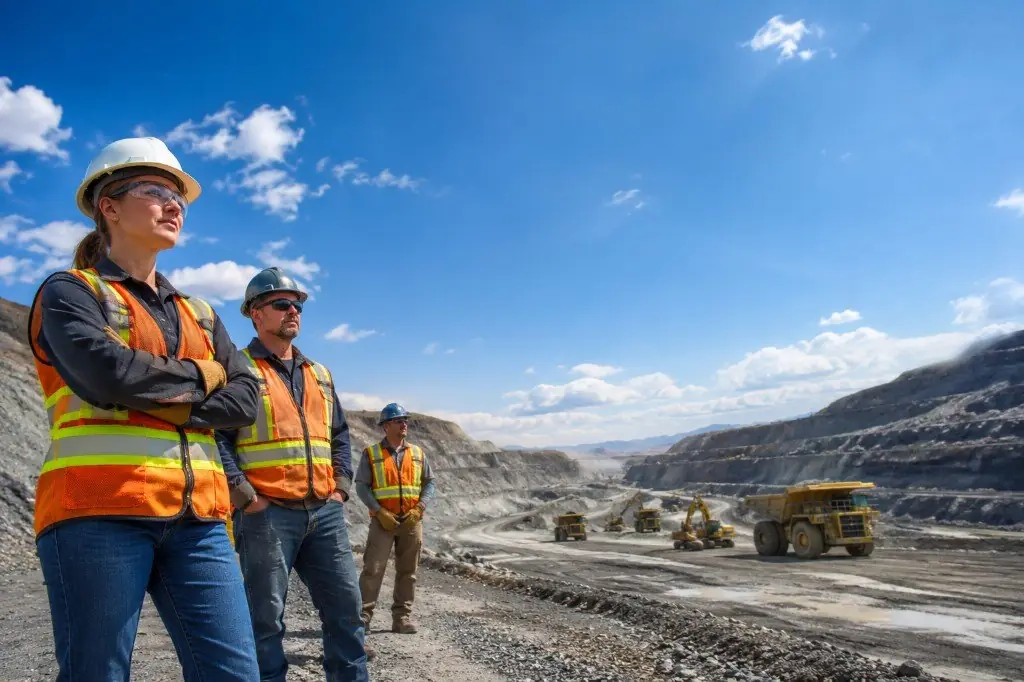
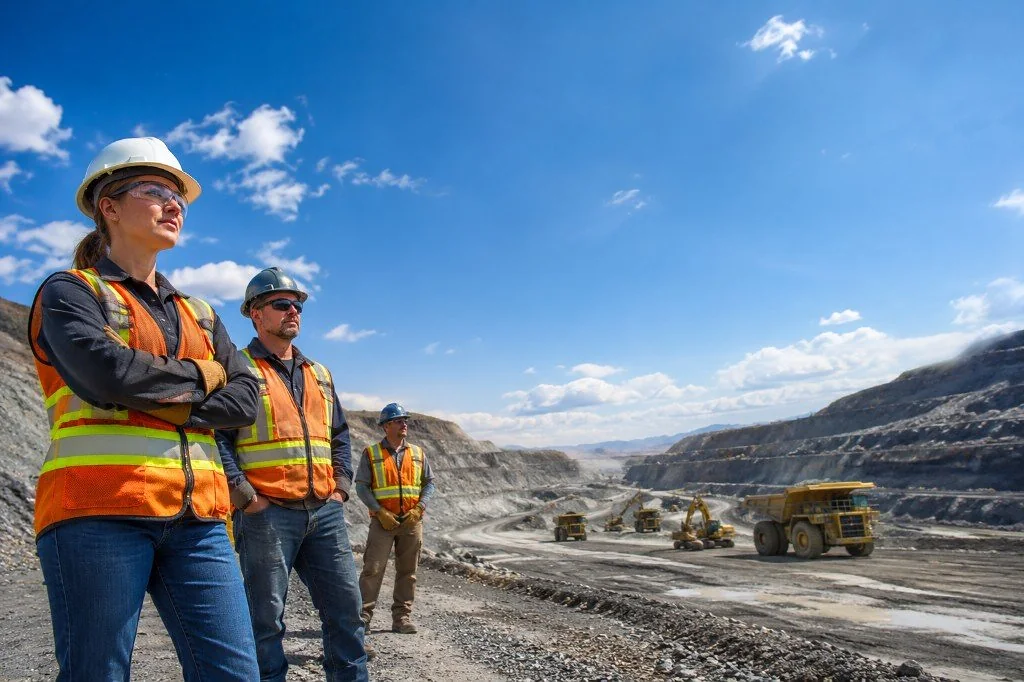
Sharpen the access photo on phones by dropping the extra zoom and serving a higher-quality crop.

diff --git a/templates/access.html b/templates/access.html
@@ -4,8 +4,8 @@
     <meta charset="UTF-8">
     <meta name="viewport" content="width=device-width, initial-scale=1.0, viewport-fit=cover">
     <title>{{ seo_title }}</title>
-    <link rel="preload" as="image" type="image/webp" href="{{ url_for('static', filename='access-bg-sm.webp') }}?v=bg2" fetchpriority="high" media="(max-width: 700px)">
-    <link rel="preload" as="image" type="image/webp" href="{{ url_for('static', filename='access-bg.webp') }}?v=bg2" fetchpriority="high" media="(min-width: 701px)">
+    <link rel="preload" as="image" type="image/webp" href="{{ url_for('static', filename='access-bg-sm.webp') }}?v=bg3" fetchpriority="high" media="(max-width: 700px)">
+    <link rel="preload" as="image" type="image/webp" href="{{ url_for('static', filename='access-bg.webp') }}?v=bg3" fetchpriority="high" media="(min-width: 701px)">
     {% include '_seo_head.html' %}
     <link rel="preconnect" href="https://fonts.googleapis.com">
     <link rel="preconnect" href="https://fonts.gstatic.com" crossorigin>
@@ -47,12 +47,11 @@
 
         @media (max-width: 700px) {
             .access-bg img {
-                width: 175%;
+                width: 100%;
                 max-width: none;
                 height: 100%;
-                left: 0;
-                right: auto;
-                object-position: left 42%;
+                object-fit: cover;
+                object-position: 12% 42%;
             }
         }
 
@@ -390,8 +389,8 @@
 <body>
     <div class="access-bg" aria-hidden="true">
         <picture>
-            <source media="(max-width: 700px)" srcset="{{ url_for('static', filename='access-bg-sm.webp') }}?v=bg2" type="image/webp">
-            <source srcset="{{ url_for('static', filename='access-bg.webp') }}?v=bg2" type="image/webp">
+            <source media="(max-width: 700px)" srcset="{{ url_for('static', filename='access-bg-sm.webp') }}?v=bg3" type="image/webp">
+            <source srcset="{{ url_for('static', filename='access-bg.webp') }}?v=bg3" type="image/webp">
             <img src="{{ url_for('static', filename='access-bg.jpg') }}" alt="" width="1024" height="682" decoding="async" fetchpriority="high">
         </picture>
     </div>
